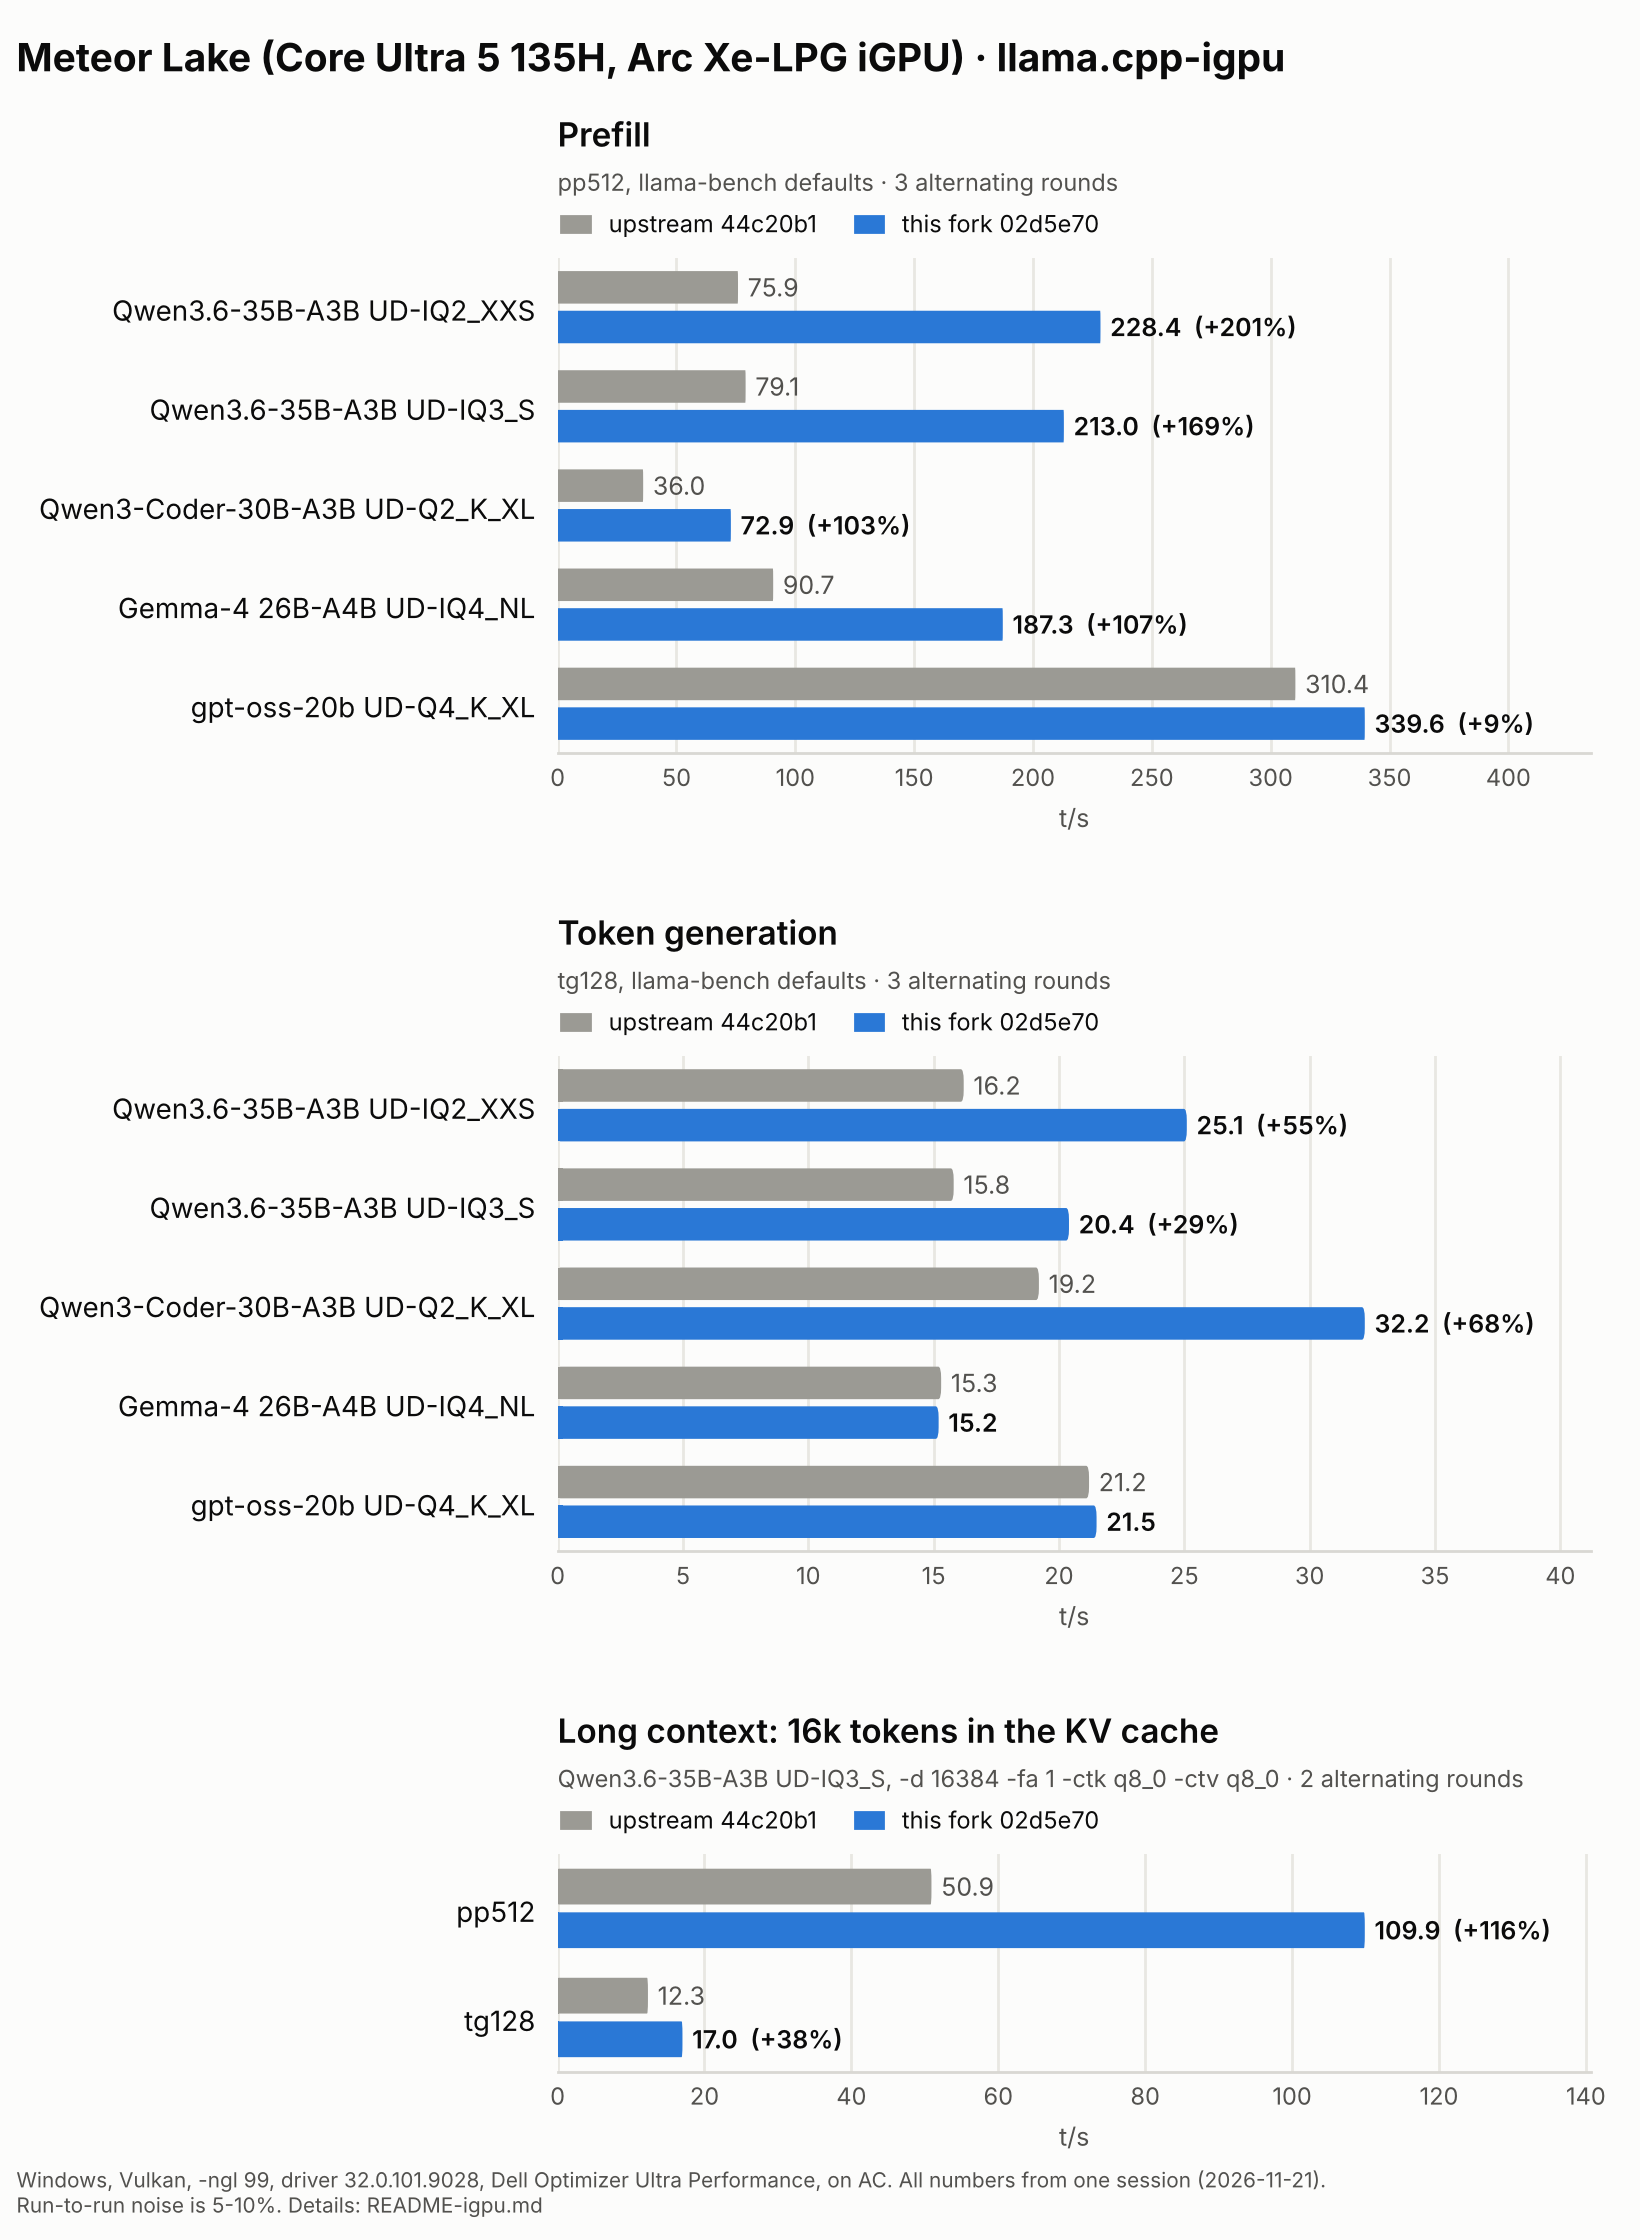
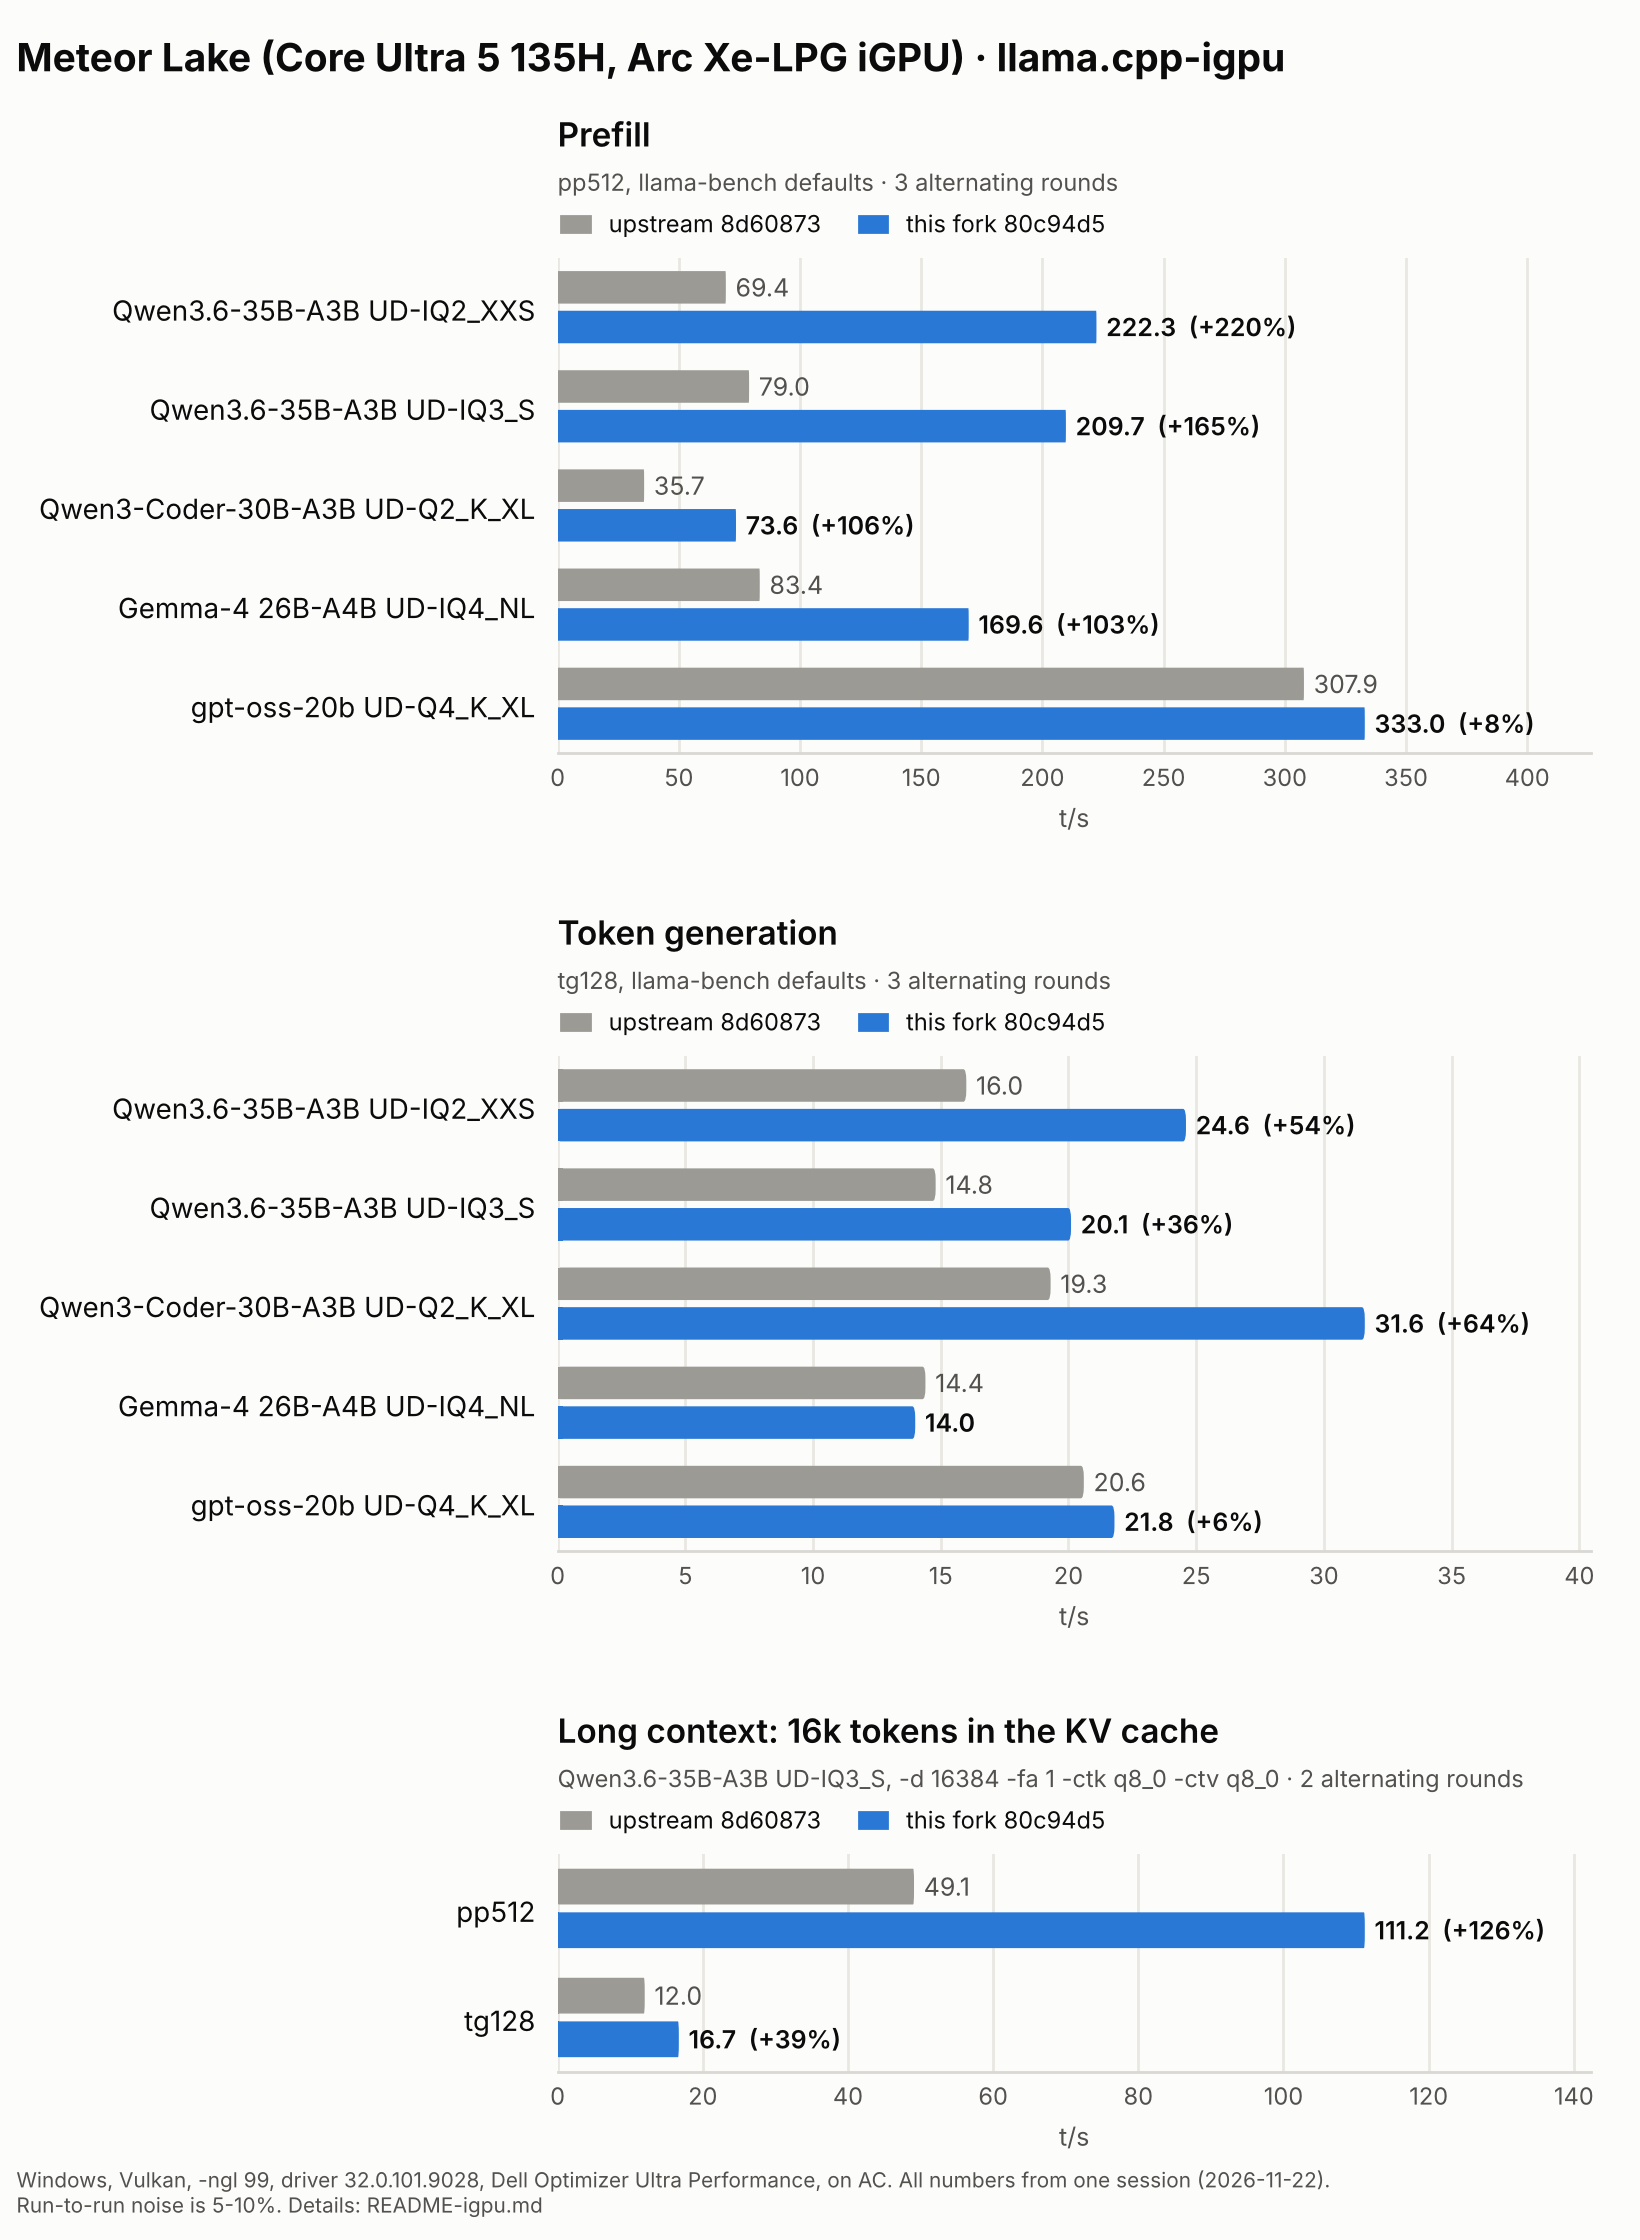
README-igpu: Meteor Lake upstream vs fork re-measured with MXFP4 MoE MMVQ
bench-compare.ps1, upstream 8d60873 vs fork 80c94d5, 3 alternating rounds.
gpt-oss tg128 20.6 -> 21.8 (1.06x, was 1.01x). Chart redrawn.

Claude-Session: https://claude.ai/code/session_016hN8uJYywep5xmvUceryRL

diff --git a/docs/igpu/make_charts.py b/docs/igpu/make_charts.py
@@ -83,7 +83,7 @@ def save(fig, name, note):
 
 
 # ---------------- Meteor Lake ----------------
-# bench-compare.ps1, 2026-11-21: Core Ultra 5 135H, driver 32.0.101.9028, upstream 44c20b1 vs fork 02d5e70,
+# bench-compare.ps1, 2026-11-22: Core Ultra 5 135H, driver 32.0.101.9028, upstream 8d60873 vs fork 80c94d5,
 # 3 alternating rounds at depth 0 (2 at depth 16384), means.
 MTL_MODELS = ["Qwen3.6-35B-A3B UD-IQ2_XXS", "Qwen3.6-35B-A3B UD-IQ3_S", "Qwen3-Coder-30B-A3B UD-Q2_K_XL",
               "Gemma-4 26B-A4B UD-IQ4_NL", "gpt-oss-20b UD-Q4_K_XL"]
@@ -92,28 +92,28 @@ fig, axs = plt.subplots(3, 1, figsize=(8.2, 11.2), facecolor=SURFACE,
 panel(axs[0], "Prefill",
       "pp512, llama-bench defaults · 3 alternating rounds",
       MTL_MODELS,
-      [("upstream 44c20b1", BASE, [75.9, 79.1, 36.0, 90.7, 310.4]),
-       ("this fork 02d5e70", FORK, [228.4, 213.0, 72.9, 187.3, 339.6])])
+      [("upstream 8d60873", BASE, [69.4, 79.0, 35.7, 83.4, 307.9]),
+       ("this fork 80c94d5", FORK, [222.3, 209.7, 73.6, 169.6, 333.0])])
 panel(axs[1], "Token generation",
       "tg128, llama-bench defaults · 3 alternating rounds",
       MTL_MODELS,
-      [("upstream 44c20b1", BASE, [16.2, 15.8, 19.2, 15.3, 21.2]),
-       ("this fork 02d5e70", FORK, [25.1, 20.4, 32.2, 15.2, 21.5])])
+      [("upstream 8d60873", BASE, [16.0, 14.8, 19.3, 14.4, 20.6]),
+       ("this fork 80c94d5", FORK, [24.6, 20.1, 31.6, 14.0, 21.8])])
 panel(axs[2], "Long context: 16k tokens in the KV cache",
       "Qwen3.6-35B-A3B UD-IQ3_S, -d 16384 -fa 1 -ctk q8_0 -ctv q8_0 · 2 alternating rounds",
       ["pp512", "tg128"],
-      [("upstream 44c20b1", BASE, [50.9, 12.3]),
-       ("this fork 02d5e70", FORK, [109.9, 17.0])])
+      [("upstream 8d60873", BASE, [49.1, 12.0]),
+       ("this fork 80c94d5", FORK, [111.2, 16.7])])
 fig.suptitle("Meteor Lake (Core Ultra 5 135H, Arc Xe-LPG iGPU) · llama.cpp-igpu", x=0.01, ha="left",
              fontsize=14, fontweight="bold", y=0.985)
 fig.subplots_adjust(left=0.34, right=0.97, top=0.885, bottom=0.075)
 save(fig, "igpu-meteor-lake.png",
-     "Windows, Vulkan, -ngl 99, driver 32.0.101.9028, Dell Optimizer Ultra Performance, on AC. All numbers from one session (2026-11-21).\n"
+     "Windows, Vulkan, -ngl 99, driver 32.0.101.9028, Dell Optimizer Ultra Performance, on AC. All numbers from one session (2026-11-22).\n"
      "Run-to-run noise is 5-10%. Details: README-igpu.md")
 
 # ---------------- Lunar Lake ----------------
 # bench-compare.ps1, 2026-11-21 (second run, IQ3_S re-downloaded): Core Ultra 7 268V, driver 32.0.101.9028,
-# upstream 44c20b1 vs fork 02d5e70, 3 alternating rounds at depth 0 (2 at depth 16384), medians.
+# upstream 8d60873 vs fork 02d5e70, 3 alternating rounds at depth 0 (2 at depth 16384), medians.
 LNL_MODELS = ["Qwen3.6-35B-A3B UD-IQ2_XXS", "Qwen3.6-35B-A3B UD-IQ3_S", "Qwen3-Coder-30B-A3B UD-Q2_K_XL",
               "Gemma-4 26B-A4B UD-IQ4_NL", "gpt-oss-20b UD-Q4_K_XL"]
 fig, axs = plt.subplots(3, 1, figsize=(8.2, 11.2), facecolor=SURFACE,

diff --git a/README-igpu.md b/README-igpu.md
@@ -41,23 +41,27 @@ The charts are drawn from the tables below by `docs/igpu/make_charts.py`; each c
 
 ### Meteor Lake: upstream vs this fork
 
-`bench-compare.ps1`, 2026-11-21: Core Ultra 5 135H, driver 32.0.101.9028, Dell Optimizer "Ultra Performance", on AC. Upstream
-44c20b1 vs this fork 02d5e70, `llama-bench` defaults, 3 alternating rounds (2 at depth 16384), mean t/s:
+`bench-compare.ps1`, 2026-11-22: Core Ultra 5 135H, driver 32.0.101.9028, Dell Optimizer "Ultra Performance", on AC. Upstream
+8d60873 vs this fork 80c94d5, `llama-bench` defaults, 3 alternating rounds (2 at depth 16384), mean t/s:
 
 | model | pp512 upstream | pp512 fork | tg128 upstream | tg128 fork |
 |---|---|---|---|---|
-| Qwen3.6-35B-A3B UD-IQ2_XXS | 75.9 | 228.4 (3.01x) | 16.2 | 25.1 (1.55x) |
-| Qwen3.6-35B-A3B UD-IQ3_S | 79.1 | 213.0 (2.69x) | 15.8 | 20.4 (1.29x) |
-| Qwen3-Coder-30B-A3B UD-Q2_K_XL | 36.0 | 72.9 (2.03x) | 19.2 | 32.2 (1.68x) |
-| Gemma-4 26B-A4B UD-IQ4_NL | 90.7 | 187.3 (2.07x) | 15.3 | 15.2 (0.99x) |
-| gpt-oss-20b UD-Q4_K_XL | 310.4 | 339.6 (1.09x) | 21.2 | 21.5 (1.01x) |
-| Qwen3.6 IQ3_S, depth 16384, `-fa 1 -ctk q8_0 -ctv q8_0` | 50.9 | 109.9 (2.16x) | 12.3 | 17.0 (1.38x) |
+| Qwen3.6-35B-A3B UD-IQ2_XXS | 69.4 | 222.3 (3.20x) | 16.0 | 24.6 (1.54x) |
+| Qwen3.6-35B-A3B UD-IQ3_S | 79.0 | 209.7 (2.65x) | 14.8 | 20.1 (1.36x) |
+| Qwen3-Coder-30B-A3B UD-Q2_K_XL | 35.7 | 73.6 (2.06x) | 19.3 | 31.6 (1.64x) |
+| Gemma-4 26B-A4B UD-IQ4_NL | 83.4 | 169.6 (2.03x) | 14.4 | 14.0 (0.97x) |
+| gpt-oss-20b UD-Q4_K_XL | 307.9 | 333.0 (1.08x) | 20.6 | 21.8 (1.06x) |
+| Qwen3.6 IQ3_S, depth 16384, `-fa 1 -ctk q8_0 -ctv q8_0` | 49.1 | 111.2 (2.26x) | 12.0 | 16.7 (1.38x) |
 
-The fork's prefill numbers are higher than in the older tables below (Qwen3.6 UD-IQ3_S pp512 about 213 now, 123-145
+gpt-oss tg went from 1.01x (2026-11-21, fork 02d5e70) to 1.06x with MMVQ for the MXFP4 MoE. Gemma-4 varied the most
+in this run (fork tg128 12.6-15.0, pp512 160-180); on this GPU the fork keeps its IQ4_NL and IQ3_S MoE mat-vecs on fp16
+like upstream, so tg is the same within noise.
+
+The fork's prefill numbers are higher than in the older tables below (Qwen3.6 UD-IQ3_S pp512 about 210 now, 123-145
 then; at depth 16384 with a q8_0 cache 69 then, 110 now). It is not the rebase (the release before it, 4ea9498, also
 gives pp512 205-215 now). In between the driver changed (32.0.101.8991 -> 9028) and the laptop's power setting may
 have differed (Dell Optimizer "Ultra Performance" now; the Windows power mode that the script reads does not show
-it). Which of the two it is was not separated. Upstream changed much less (pp512 74.6 then, 79.1 now). The older tables were not
+it). Which of the two it is was not separated. Upstream changed much less (pp512 74.6 then, 79.0 now). The older tables were not
 re-measured.
 
 ### Lunar Lake: upstream vs this fork
